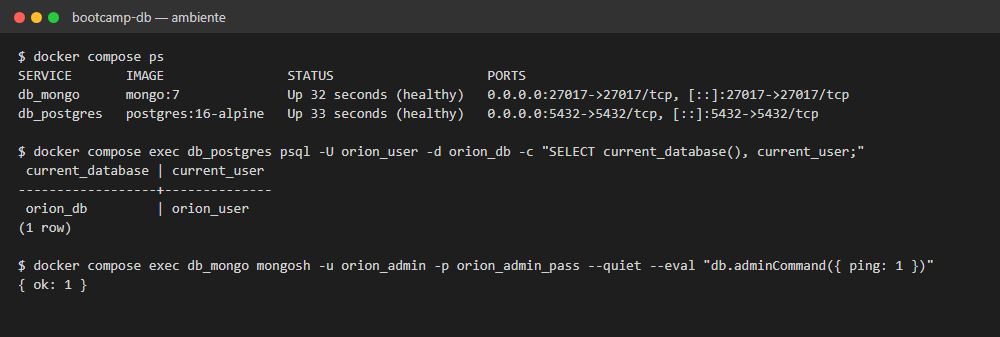
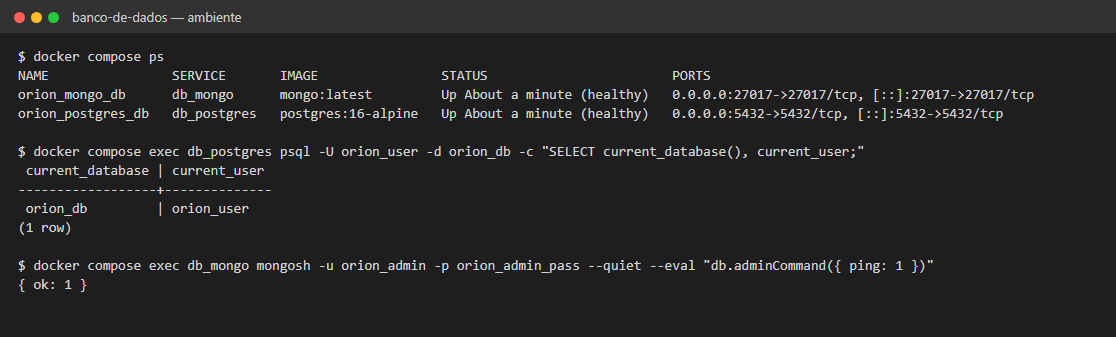
feat(banco-de-dados): usa o docker-compose.yml do material de apoio

diff --git a/banco-de-dados/README.md b/banco-de-dados/README.md
@@ -4,7 +4,7 @@ Exercícios de banco relacional (PostgreSQL) e não relacional (MongoDB).
 
 ## Ambiente
 
-O `docker-compose.yml` desta pasta sobe os dois bancos ao mesmo tempo:
+O `docker-compose.yml` desta pasta é o arquivo do material de apoio, sem alterações. Ele sobe os dois bancos ao mesmo tempo:
 
 ```bash
 cd banco-de-dados
@@ -13,6 +13,11 @@ docker compose ps   # os dois serviços devem aparecer como "healthy"
 ```
 
 ![Ambiente com PostgreSQL e MongoDB rodando](prints/ambiente.png)
+
+| Serviço | Container | Imagem | Porta |
+|---|---|---|---|
+| `db_postgres` | `orion_postgres_db` | `postgres:16-alpine` | `5432` |
+| `db_mongo` | `orion_mongo_db` | `mongo:latest` | `27017` |
 
 ### Dados de conexão
 
